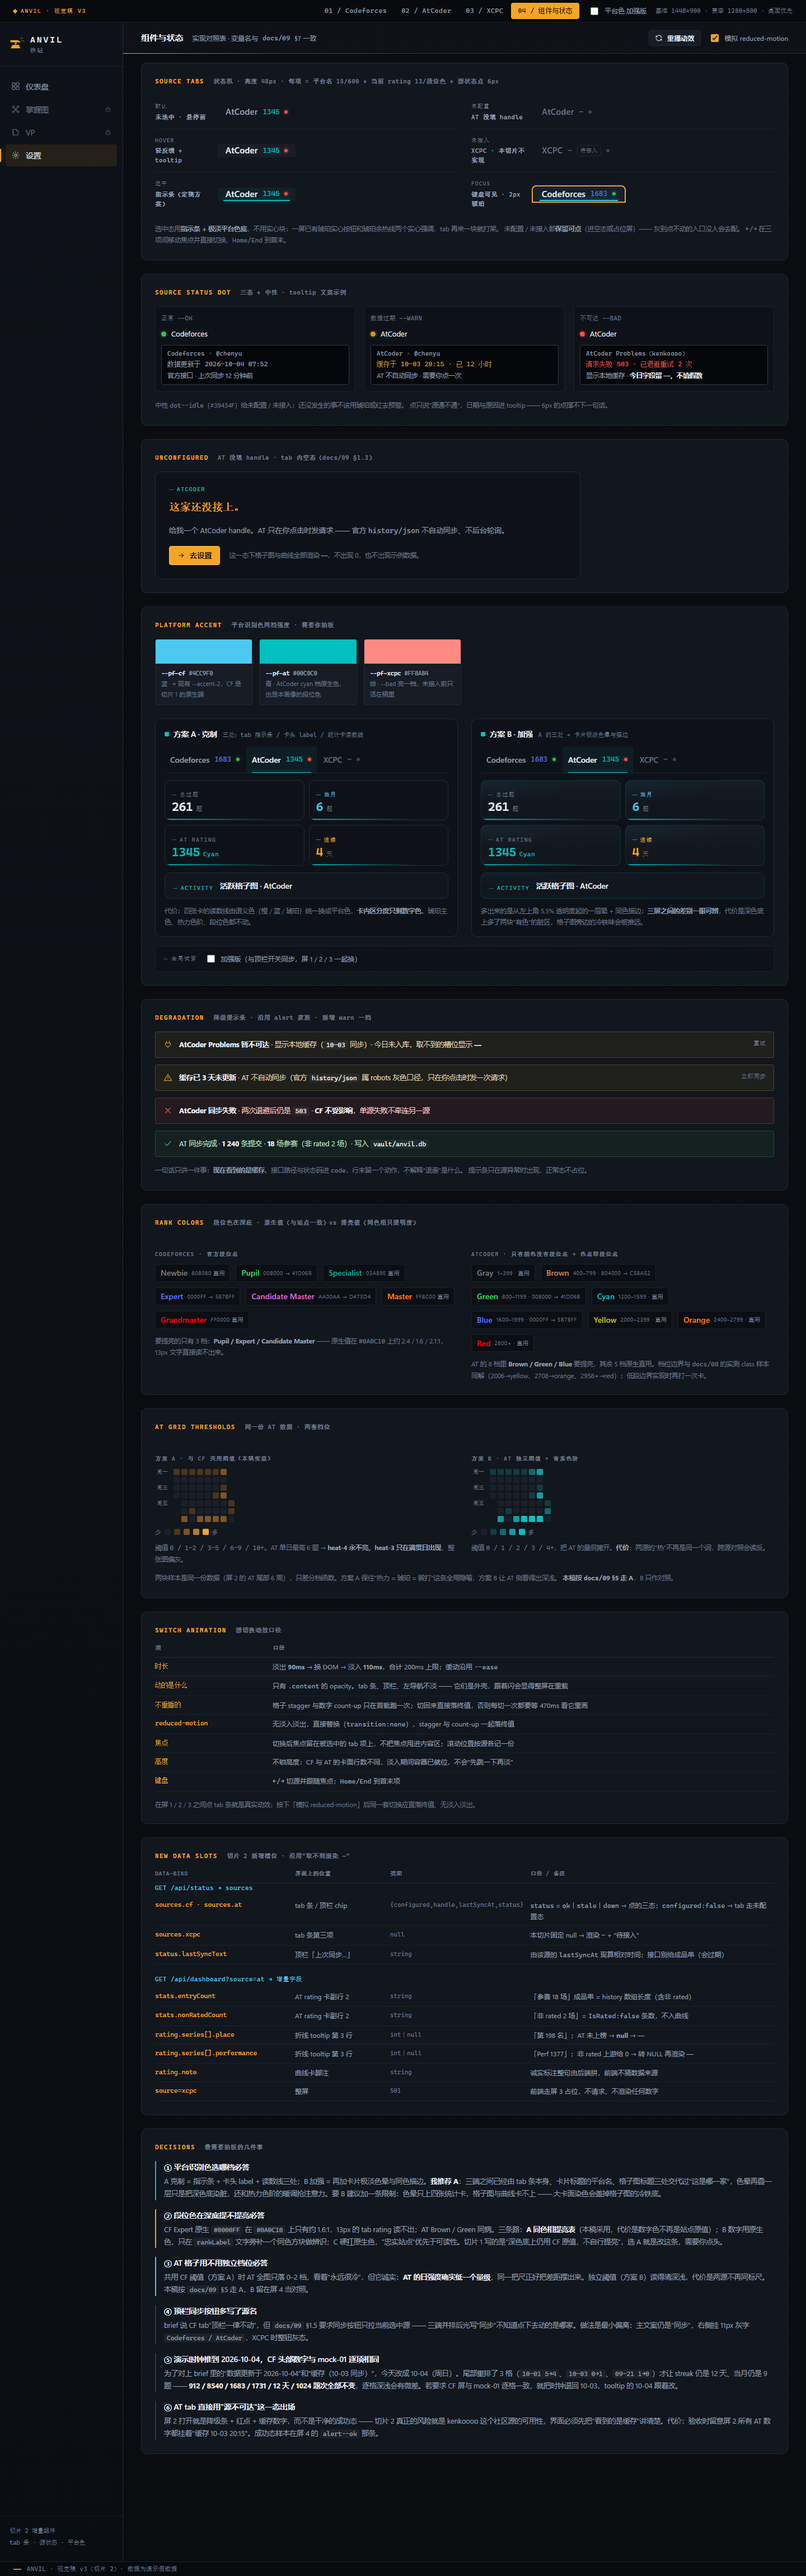
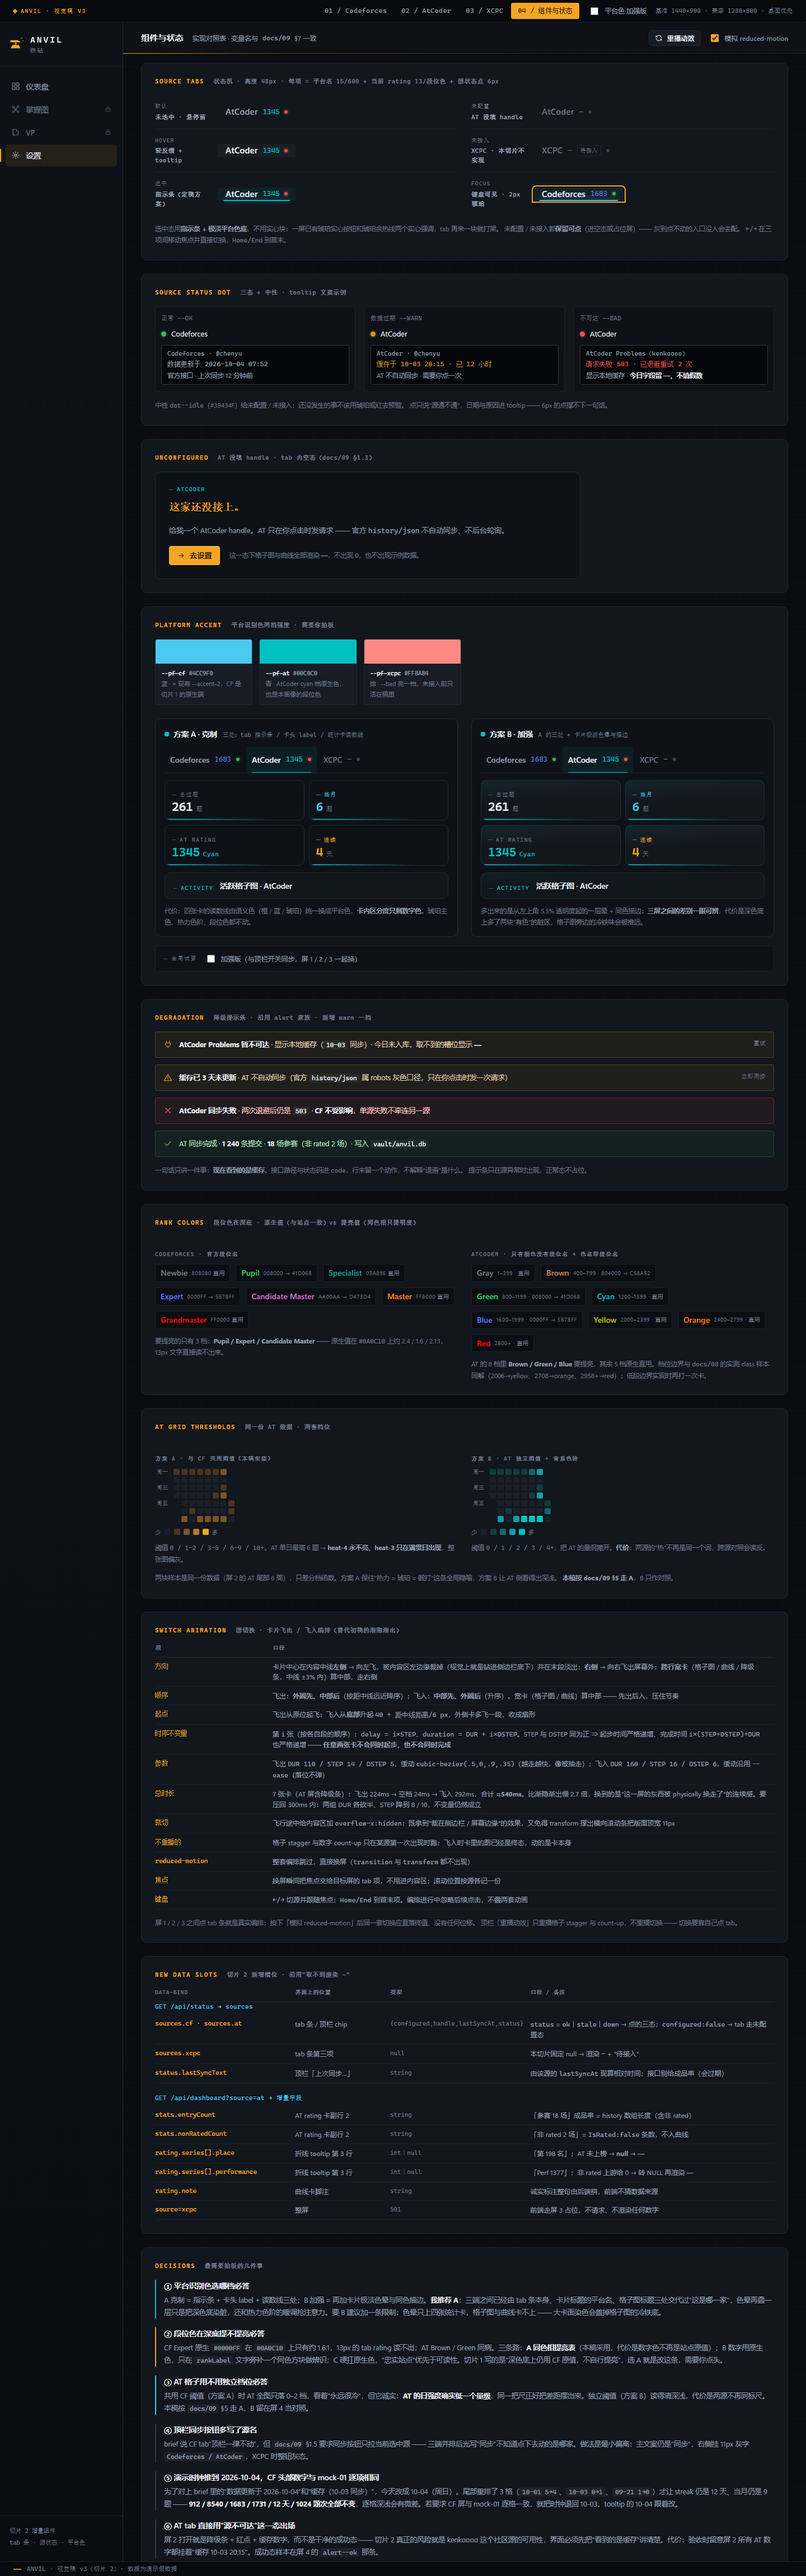
动效改向：源切换由渐隐渐出换成卡片两侧飞出 / 底部飞入
- 方向按卡片中心相对内容中线分派：左卡向左飞进侧边栏底下并淡出，右卡飞出屏幕外，跨行宽卡算中部走右侧
- 顺序：飞出外圈先中部后，飞入中部先外圈后；宽卡当节奏锚点
- 时序不变量（用户硬要求）：第 i 张 delay=i×STEP、duration=DUR+i×DSTEP，STEP/DSTEP 同为正 ⇒ 起步与完成时间两两不撞，跨段靠 handoff 隔开；构造性保证而非调参碰运气
- 参数 110/14/5 + 160/16/6 + handoff 24，7 卡合计 ≈520ms；reduced-motion 整套跳过直落
- 修掉两个实测抓到的 bug：死区 12% 把内侧左卡误判为中部（收到 3%）、飞出缺 fill:forwards 导致先飞完的卡在换屏前复活
- 验证：CDP 读 getAnimations 的 startTime/activeDuration 逐卡核对，起步与完成碰撞均为无；留 3 张中程帧截图
- 文档同步：09 §1.1/§7 与 10 的切换动画口径改写，02 记第 15 轮；04 与 mock-01 未动

Changed region(s): [[0.1875, 0.6217, 0.9375, 0.9948], [0.9062, 0.6839, 0.9375, 0.715]]

diff --git a/design/mock-02-three-ends.html b/design/mock-02-three-ends.html
@@ -69,8 +69,8 @@
 
   /* 动效 */
   --dur:180ms;
-  --ease:cubic-bezier(.22,.71,.3,1);   /* ease-out 家族 */
-  --fade-out:90ms; --fade-in:110ms;    /* 源切换：合计 200ms 上限 */
+  --ease:cubic-bezier(.22,.71,.3,1);   /* ease-out 家族 · 卡片飞入用 */
+  --ease-away:cubic-bezier(.5,0,.9,.35); /* ease-in 家族 · 卡片飞出用（源里 JS 与 CSS 共用同一组值） */
 
   --bar-h:40px; --foot-h:26px;
 }
@@ -213,19 +213,19 @@ code,.num{font-family:var(--font-num);font-variant-numeric:tabular-nums;font-fea
 /* 同步按钮带源名：一屏两个源之后，光写"同步"就不知道点下去拉的是哪家 */
 .btn-src{font-family:var(--font-num);font-size:11px;color:var(--text-mute);letter-spacing:.02em}
 
-/* 内容区：源切换的渐隐渐出落在这里 */
+/* 内容区：源切换时卡片从这里飞出两侧，新卡片从底部飞入 */
 .content{
   flex:1 1 auto;min-height:0;overflow-y:auto;
   padding:var(--sp-2) var(--sp-4) var(--sp-4);
   display:flex;flex-direction:column;gap:var(--sp-2);
-  transition:opacity var(--fade-in) var(--ease);
 }
 .content::-webkit-scrollbar{width:11px}
 .content::-webkit-scrollbar-track{background:transparent}
 .content::-webkit-scrollbar-thumb{background:#242D3A;border:3px solid var(--bg);border-radius:999px}
 .content::-webkit-scrollbar-thumb:hover{background:#31404F}
-.content.is-leaving{opacity:0;transition-duration:var(--fade-out)}
-.content.is-entering{opacity:0;transition:none}
+/* 飞行途中锁掉横向溢出：卡片被内容区左边缘裁掉 = "飞进侧边栏底下"，右边缘裁掉 = "飞出屏幕"，
+   同时避免 transform 撑出横向滚动条把版面顶宽 11px */
+.content.is-flying{overflow-x:hidden}
 
 /* ---------- 5. 源 tab 条（切片 2 核心新组件） ---------- */
 .srctabs{
@@ -579,7 +579,6 @@ body.rm-on *,body.rm-on *::before,body.rm-on *::after{
 }
 @media (prefers-reduced-motion:reduce){
   *,*::before,*::after{animation-duration:1ms !important;animation-delay:0s !important;animation-iteration-count:1 !important;transition-duration:1ms !important}
-  .content{transition:none}
 }
 </style>
 </head>
@@ -1217,20 +1216,27 @@ body.rm-on *,body.rm-on *::before,body.rm-on *::after{
 
         <!-- ---------- 切换动画 ---------- -->
         <section>
-          <h3>Switch animation <span>源切换动效口径</span></h3>
+          <h3>Switch animation <span>源切换 · 卡片飞出 / 飞入编排（替代初稿的渐隐渐出）</span></h3>
           <table class="sl">
             <thead><tr><th style="width:210px">项</th><th>口径</th></tr></thead>
             <tbody>
-              <tr><td>时长</td><td>淡出 <b>90ms</b> → 换 DOM → 淡入 <b>110ms</b>，合计 200ms 上限；缓动沿用 <code>--ease</code></td></tr>
-              <tr><td>动的是什么</td><td>只有 <code>.content</code> 的 opacity。tab 条、顶栏、左导航不淡 —— 它们是外壳，跟着闪会显得整屏在重载</td></tr>
-              <tr><td>不重播的</td><td>格子 stagger 与数字 count-up 只在首载跑一次；切回来直接落终值，否则每切一次都要等 470ms 看它重画</td></tr>
-              <tr><td>reduced-motion</td><td>无淡入淡出，直接替换（<code>transition:none</code>），stagger 与 count-up 一起落终值</td></tr>
-              <tr><td>焦点</td><td>切换后焦点留在被选中的 tab 项上，不把焦点甩进内容区；滚动位置按源各记一份</td></tr>
-              <tr><td>高度</td><td>不锁高度：CF 与 AT 的卡面行数不同，淡入期间容器已就位，不会"先跳一下再淡"</td></tr>
-              <tr><td>键盘</td><td><code>←/→</code> 切源并跟随焦点；<code>Home/End</code> 到首末项</td></tr>
+              <tr><td>方向</td><td>卡片中心在内容中线<b>左侧</b> → 向左飞，被内容区左边缘裁掉（视觉上就是钻进侧边栏底下）并在末段淡出；<b>右侧</b> → 向右飞出屏幕外；<b>跨行宽卡</b>（格子图 / 曲线 / 降级条，中线 ±3% 内）算中部，走右侧</td></tr>
+              <tr><td>顺序</td><td>飞出：<b>外圈先、中部后</b>（按距中线远近降序）；飞入：<b>中部先、外圈后</b>（升序）。宽卡（格子图 / 曲线）算中部 —— 先出后入，压住节奏</td></tr>
+              <tr><td>起点</td><td>飞出从原位起飞；飞入从<b>底部</b>升起 <code>40 + 距中线距离/6 px</code>，外侧卡多飞一段，收成扇形</td></tr>
+              <tr><td>时序不变量</td><td>第 <code>i</code> 张（按各自段的顺序）：<code>delay = i×STEP</code>、<code>duration = DUR + i×DSTEP</code>。STEP 与 DSTEP 同为正 ⇒ 起步时间严格递增、完成时间 <code>i×(STEP+DSTEP)+DUR</code> 也严格递增 —— <b>任意两张卡不会同时起步，也不会同时完成</b></td></tr>
+              <tr><td>参数</td><td>飞出 <code>DUR 110 / STEP 14 / DSTEP 5</code>，缓动 <code>cubic-bezier(.5,0,.9,.35)</code>（越走越快，像被抽走）；飞入 <code>DUR 160 / STEP 16 / DSTEP 6</code>，缓动沿用 <code>--ease</code>（落位不弹）</td></tr>
+              <tr><td>总时长</td><td>7 张卡（AT 屏含降级条）：飞出 224ms → 空档 24ms → 飞入 292ms，合计 <b>≈540ms</b>。比渐隐渐出慢 2.7 倍，换到的是"这一屏的东西被 physically 换走了"的连续感。要压回 300ms 内：两组 DUR 各砍半、STEP 降到 8 / 10，不变量仍然成立</td></tr>
+              <tr><td>裁切</td><td>飞行途中给内容区加 <code>overflow-x:hidden</code>：既拿到"裁在侧边栏 / 屏幕边缘"的效果，又免得 transform 撑出横向滚动条把版面顶宽 11px</td></tr>
+              <tr><td>不重播的</td><td>格子 stagger 与数字 count-up 只在某源第一次出现时跑；飞入时卡里的图已经是终态，动的是卡本身</td></tr>
+              <tr><td>reduced-motion</td><td>整套编排跳过，直接换屏（<code>transition</code> 与 <code>transform</code> 都不出现）</td></tr>
+              <tr><td>焦点</td><td>换屏瞬间把焦点交给目标屏的 tab 项，不甩进内容区；滚动位置按源各记一份</td></tr>
+              <tr><td>键盘</td><td><code>←/→</code> 切源并跟随焦点；<code>Home/End</code> 到首末项。编排进行中忽略后续点击，不叠两套动画</td></tr>
             </tbody>
           </table>
-          <p class="hint" style="margin-top:14px">在屏 1 / 2 / 3 之间点 tab 条就是真实动效；按下「模拟 reduced-motion」后同一套切换应直落终值、无淡入淡出。</p>
+          <p class="hint" style="margin-top:14px">
+            屏 1 / 2 / 3 之间点 tab 条就是真实编排；按下「模拟 reduced-motion」后同一套切换应直落终值、没有任何位移。
+            顶栏「重播动效」只重播格子 stagger 与 count-up，不重播切换 —— 切换要靠自己点 tab。
+          </p>
         </section>
 
         <!-- ---------- 新增数据槽 ---------- -->
@@ -1894,23 +1900,88 @@ function firstPaint(id){
   var c=$("#"+id); if(!c) return;
   countUp(c);
 }
-function revealAfter(sourceScreen, srcId){
-  var c=contentOf(sourceScreen);
-  if(!c || reduced()) return;
-  c.classList.add("is-entering");
-  requestAnimationFrame(function(){ requestAnimationFrame(function(){ c.classList.remove("is-entering") }) });
-  var t=$('#'+sourceScreen+' .srctab[data-src="'+srcId+'"]');
+/* ==========================================================================
+   卡片飞入飞出 —— 源切换的编排（取代切片 2 初稿的渐隐渐出）
+   方向：卡片中心在内容中线左侧 → 向左飞进侧边栏底下并隐去；右侧 / 跨行宽卡 → 向右飞出屏幕外。
+   顺序：飞出 = 离中线远的先走（外圈先、中部后）；飞入 = 离中线近的先来（中部先、外圈后）。
+   时序不变量：第 i 张 delay = i*STEP，duration = DUR + i*DSTEP（STEP、DSTEP 同为正）
+     ⇒ 起步时间严格递增，完成时间 = i*(STEP+DSTEP) + DUR 也严格递增
+     ⇒ 任意两张卡不会同时起步，也不会同时完成；飞入段整体晚于飞出段一个 handoff，两段之间也不撞。
+   ========================================================================== */
+var FLY={
+  out:{dur:110, step:14, durStep:5,  ease:"cubic-bezier(.5,0,.9,.35)"},   /* ease-in：越走越快，像被抽走 */
+  in :{dur:160, step:16, durStep:6,  ease:"cubic-bezier(.22,.71,.3,1)"},  /* 与 --ease 同值：落位不弹 */
+  handoff:24,                                                              /* 两段之间的空档，避开"上一张刚落地、下一张同时起步" */
+  dead:0.03                                                                /* 只有跨行宽卡算"中部"：中线 ±3% 内不偏左右 */
+};
+function flyNodes(content){
+  return $$(":scope > .grid-4 > .stat, :scope > .card, :scope > .alert", content);
+}
+function plan(content){
+  var box=content.getBoundingClientRect(), mid=box.left+box.width/2;
+  var items=flyNodes(content).map(function(n){
+    var r=n.getBoundingClientRect(), dx=(r.left+r.width/2)-mid;
+    return {n:n, left:r.left, right:r.right, dist:Math.abs(dx),
+            side: Math.abs(dx)<box.width*FLY.dead ? 0 : (dx<0?-1:1)};
+  });
+  return items;
+}
+function flyOut(content){
+  var items=plan(content);
+  items.sort(function(a,b){ return b.dist-a.dist });            /* 外圈先飞出 */
+  var total=0, anims=[];
+  items.forEach(function(it,i){
+    var d=FLY.out.dur+i*FLY.out.durStep, delay=i*FLY.out.step;
+    var kf = it.side<0
+      ? [{transform:"translateX(0)",opacity:1},
+         {transform:"translateX("+Math.round(-(it.right+48)*0.6)+"px)",opacity:1,offset:.6},
+         {transform:"translateX("+-(it.right+48)+"px)",opacity:0}]
+      : [{transform:"translateX(0)",opacity:1},
+         {transform:"translateX("+(window.innerWidth-it.left+48)+"px)",opacity:1}];
+    /* fill:forwards —— 飞出去的卡必须停在屏外，否则它自己的动画先结束、换屏还没到，
+       卡片会在原地"复活"一下（150ms 那一帧就是这个 bug） */
+    anims.push(it.n.animate(kf,{duration:d, delay:delay, easing:FLY.out.ease, fill:"forwards"}));
+    total=Math.max(total, delay+d);
+  });
+  return {total:total, anims:anims};
+}
+function flyIn(content){
+  var items=plan(content);
+  items.sort(function(a,b){ return a.dist-b.dist });            /* 中部先飞入 */
+  var total=0;
+  items.forEach(function(it,i){
+    var d=FLY.in.dur+i*FLY.in.durStep, delay=i*FLY.in.step;
+    var rise=Math.round(40 + it.dist/6);                        /* 外侧卡多飞一段，呈扇形展开 */
+    it.n.animate([{transform:"translateY("+rise+"px)",opacity:0},{transform:"translateY(0)",opacity:1}],
+                 {duration:d, delay:delay, easing:FLY.in.ease, fill:"backwards"});
+    total=Math.max(total, delay+d);
+  });
+  return total;
+}
+
+var flying=false;
+function focusTab(screen, srcId){
+  var t=$('#'+screen+' .srctab[data-src="'+srcId+'"]');
   if(t) t.focus();
 }
 function switchSource(id){
   var cur=currentScreen(), target=SOURCES[id].screen;
-  if(target===cur) return;
-  var old=contentOf(cur);
-  function land(){ go(target); revealAfter(target,id); }
-  if(old && !reduced()){
-    old.classList.add("is-leaving");
-    setTimeout(function(){ old.classList.remove("is-leaving"); land() },90);
-  } else land();
+  if(target===cur || flying) return;
+  var from=contentOf(cur), to=contentOf(target);
+  if(reduced() || !from || !to || !flyNodes(from).length || !flyNodes(to).length){
+    go(target); focusTab(target,id); return;
+  }
+  flying=true;
+  from.classList.add("is-flying"); to.classList.add("is-flying");
+  var out=flyOut(from);
+  setTimeout(function(){
+    out.anims.forEach(function(a){ a.cancel() });
+    from.classList.remove("is-flying");
+    go(target);
+    var inTotal=flyIn(to);
+    focusTab(target,id);
+    setTimeout(function(){ to.classList.remove("is-flying"); flying=false }, inTotal);
+  }, out.total + FLY.handoff);
 }
 
 $$(".mocktab").forEach(function(t){ t.addEventListener("click",function(){ go(t.dataset.screen) }) });

diff --git a/docs/02-设计讨论记录.md b/docs/02-设计讨论记录.md
@@ -5,6 +5,21 @@
 
 ---
 
+## 2026-10-04 · 第 15 轮：mock-02 交付后 —— 切换动效改向（卡片飞出飞入）
+
+- mock-02 已交付（4 屏 + 8 张实拍）。用户看了渐隐渐出后改口径：**推翻第 14 轮"切换 ≤200ms 淡入淡出"**，换成卡片编排：旧卡向两侧飞出、新卡自底部飞入。已在 `feat/mock02-card-fly` 分支落到视觉稿里。
+- 定稿编排：
+  - **方向**按卡片中心相对内容中线的左右分派 —— 左侧卡向左飞、被内容区左边缘裁掉（视觉上钻进侧边栏底下）并在末段淡出；右侧卡向右飞出屏幕外；跨行宽卡（格子图 / 曲线 / 降级条）算中部走右侧。
+  - **顺序**：飞出 = 离中线远的先走（外圈先、中部后）；飞入 = 离中线近的先来（中部先、外圈后）。宽卡压后出、提前入，正好当节奏锚点。
+  - **时序不变量**（用户硬要求："任意两张卡片的起步和完成时间都要不一样"）：第 i 张 `delay = i×STEP`、`duration = DUR + i×DSTEP`，STEP 与 DSTEP 同为正 ⇒ 起步与完成时间都严格递增，两两不撞；飞入段整体晚于飞出段一个 handoff，跨段也不撞。这条是**构造性保证**，不靠调参碰运气。
+  - 参数：飞出 `110/14/5`、飞入 `160/16/6`，两段间空档 24ms；总时长 ≈ **520ms**（7 张卡）。比淡入淡出慢 2.7 倍，是这次改动实打实的代价 —— 换到"这一屏的东西被 physically 换走了"的连续感。要压回 300ms 内：两组 DUR 各砍半、STEP 降到 8/10，不变量仍然成立（已写进视觉稿的口径表）。
+- 实测方式：CDP 驱动本机 Chromium，直接读 `document.getAnimations()` 的 `startTime + delay` 与 `activeDuration`，逐卡打印起步/完成/位移/末帧透明度 —— 起步与完成碰撞均为「无」，方向与顺序符合上述规则。截图留 3 张中程帧（`_shot-v3-fly-070/150/330.png`）。
+- 过程中抓到两个真 bug：① 死区取 12% 时内侧左卡被判成"中部"改飞右侧，收到 3% 才对；② 飞出动画不写 `fill:forwards` 的话，先飞完的卡会在换屏前"复活"回原位（150ms 那帧拍到过）。
+- 同步改了 `09` §1.1/§7 与 `10` 的切换动画口径；`04`（切片 1 契约）与 `mock-01` 未动。
+- 待用户定：这套编排是否就是切片 2 终稿（是 → 冻结 mock-02，实现 agent 照做；否 → 继续调）。平台识别色两档与段位色提亮表仍挂着（第 14 轮遗留）。
+
+---
+
 ## 2026-10-04 · 第 14 轮：切片 2 定案（AT 先行 + 三端 tab）
 
 - 用户拍板范围：**AT 先实装；XCPC 只先冻结契约（不实现）**。切片 3 = XCPC 实装，切片 4 = 掌握图。

diff --git a/docs/10-设计brief-mock02.md b/docs/10-设计brief-mock02.md
@@ -20,7 +20,7 @@
 - 位置：内容区顶部（topbar 之下），高约 44–52px。
 - 每项 = **平台名（15px / 600）+ 当前 rating（13px / 段位色）+ 源状态点（6px 圆点）**。
 - 状态：默认 / hover（轻反馈 + tooltip"数据更新于 2026-10-04"）/ 选中（指示条或底色，定稿自选）/ 未配置（AT 未填 handle）/ 未接入（XCPC，rating 显示 `—` + "待接入"）。
-- 切换动画：下方内容区**渐隐渐出 ≤200ms**（缓动沿用 `--ease`），`prefers-reduced-motion` 直落终值。
+- 切换动画（2026-10-04 交付后改口径，原"渐隐渐出 ≤200ms"作废）：旧卡向**两侧飞出**、新卡自**底部飞入**；飞出 = 外圈先中部后，飞入 = 中部先外圈后；左侧卡飞进侧边栏底下并隐去，右侧卡飞出屏幕外。**硬约束：任意两张卡的起步与完成时间都不得相同**（用 `delay=i×STEP / duration=DUR+i×DSTEP` 构造性保证）。细则见 `docs/09` §7。
 
 ## CF tab 的两处调整
 
